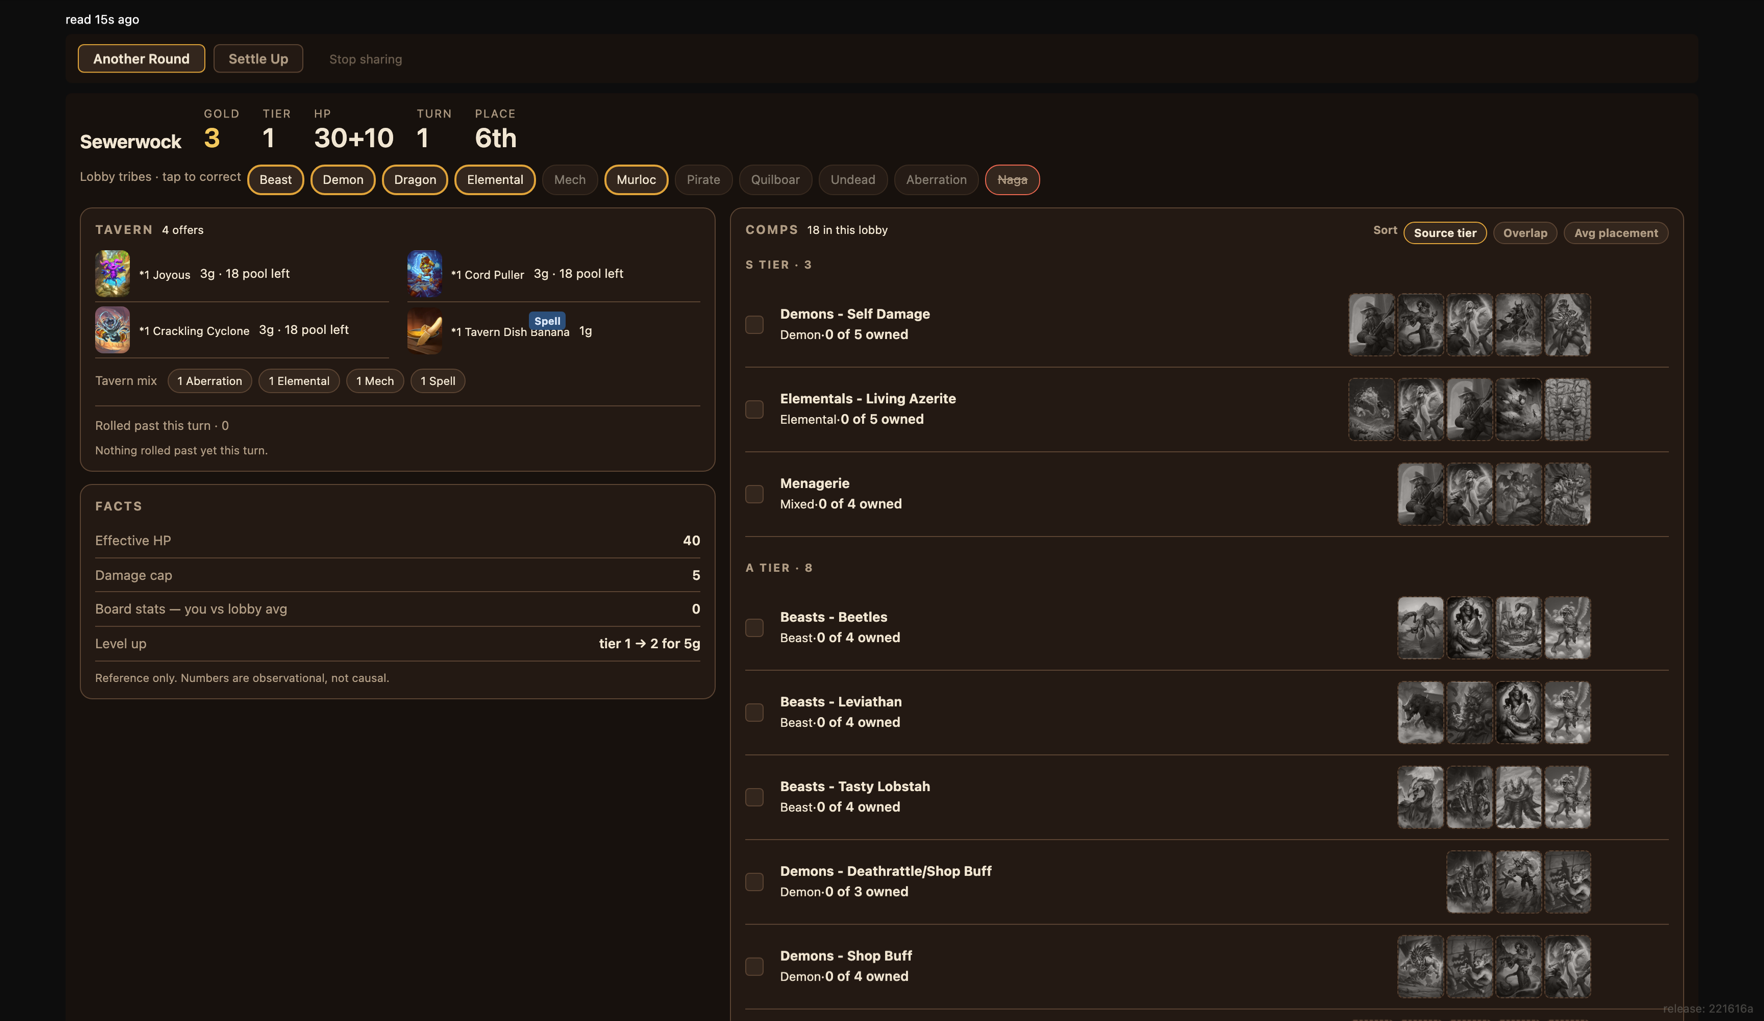
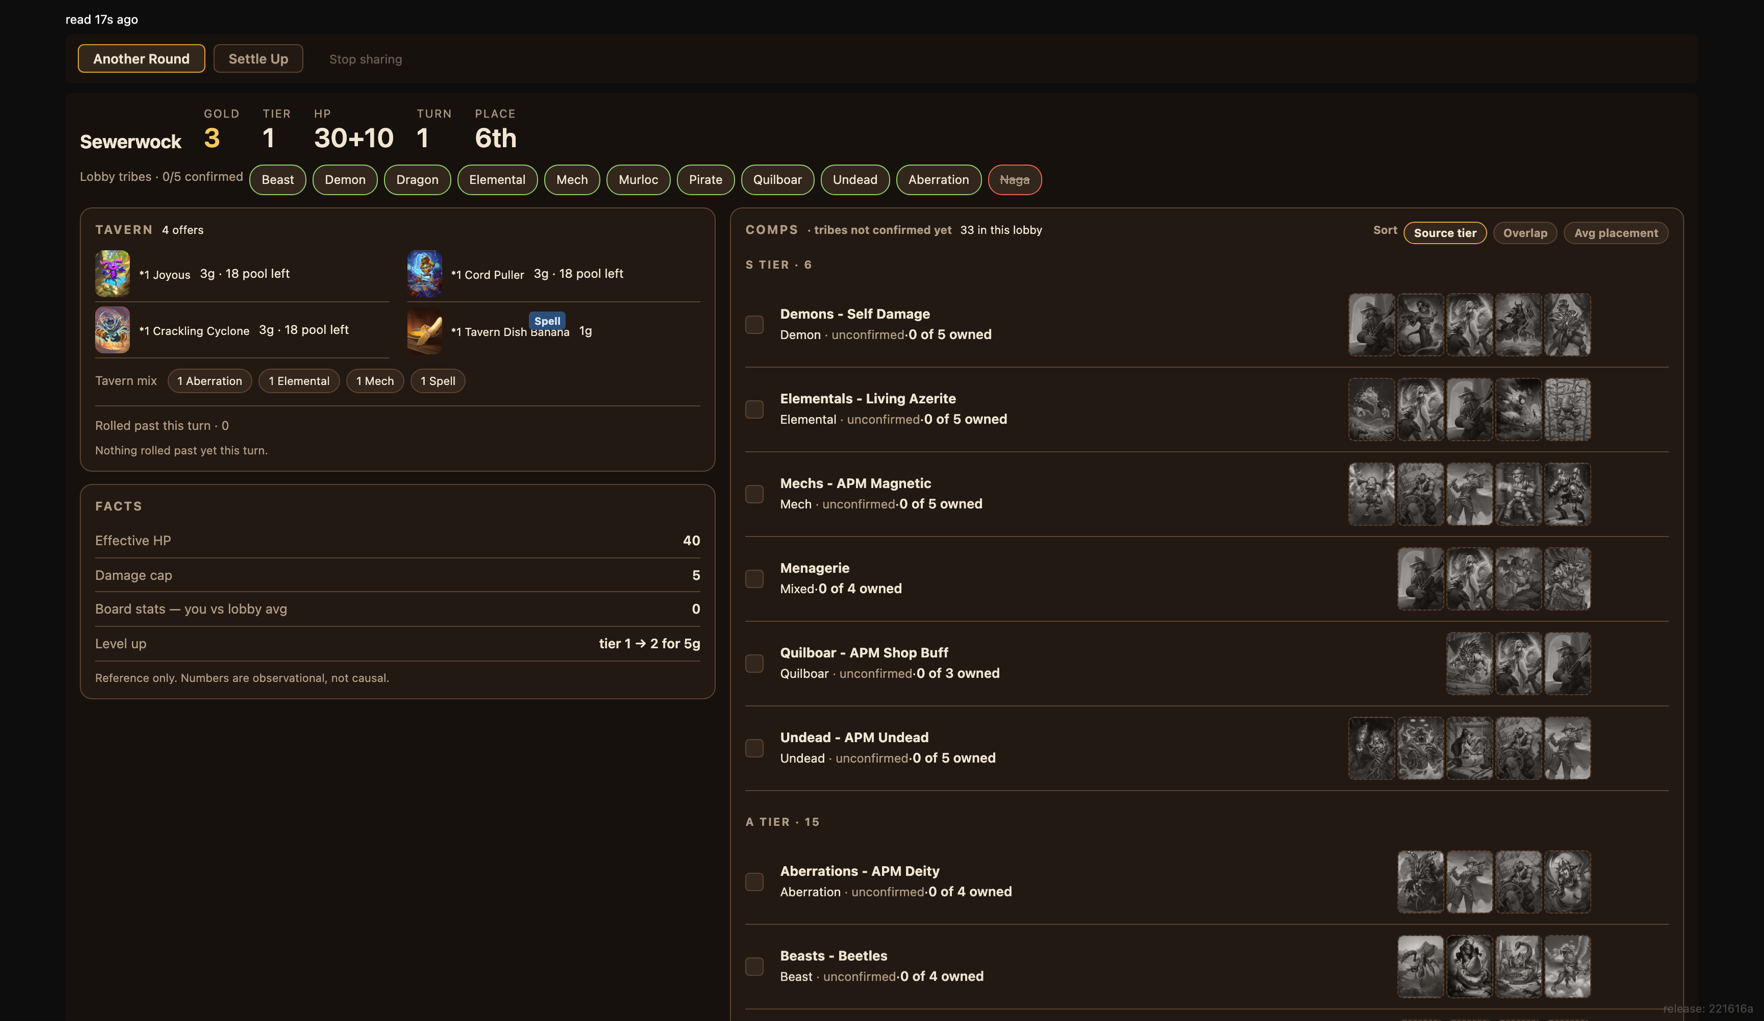
README: show the first shop before tribes are confirmed
Use the clean preview capture rather than the replay-mode frame with the REPLAY banner; keep the authentic 0/5 lobby state and say why the comps are dimmed.

diff --git a/README.md b/README.md
@@ -79,9 +79,9 @@ The page has two tabs: **Another Round**, the live view, and **Settle Up**, the 
 
 This is where you start, and it updates as you play. It opens as a page in your browser, not a second game window, so put it on another monitor or leave it behind the game.
 
-![Another Round at the first shop: the lobby tribes set, four tavern offers, and the comps this lobby can build](docs/screenshots/another-round-first-shop.png)
+![Another Round at the first shop, before the five lobby tribes are confirmed](docs/screenshots/another-round-first-shop.png)
 
-*Another Round at the first shop: the five lobby tribes are set, the tavern's four offers are on the left, and the comps this lobby can build are already listed on the right.*
+*Another Round at the first shop, before the five lobby tribes are tapped: the tavern's offers and the facts are already read, and the comps are listed but dimmed until the tribe row is set.*
 
 - **The status bar at the top** — the hero, then gold, tier, health (with armour when you have any), turn and place. A number that has not been read yet is a dash, never a guess. The page's one read-age line at the very top says how old the current frame is.
 - **One row of lobby tribes under it.** Tap the five tribes the tavern is offering this game — the same five the game's own minion-types panel shows you at hero select — and every comp and count on the page is exact from turn 1.
